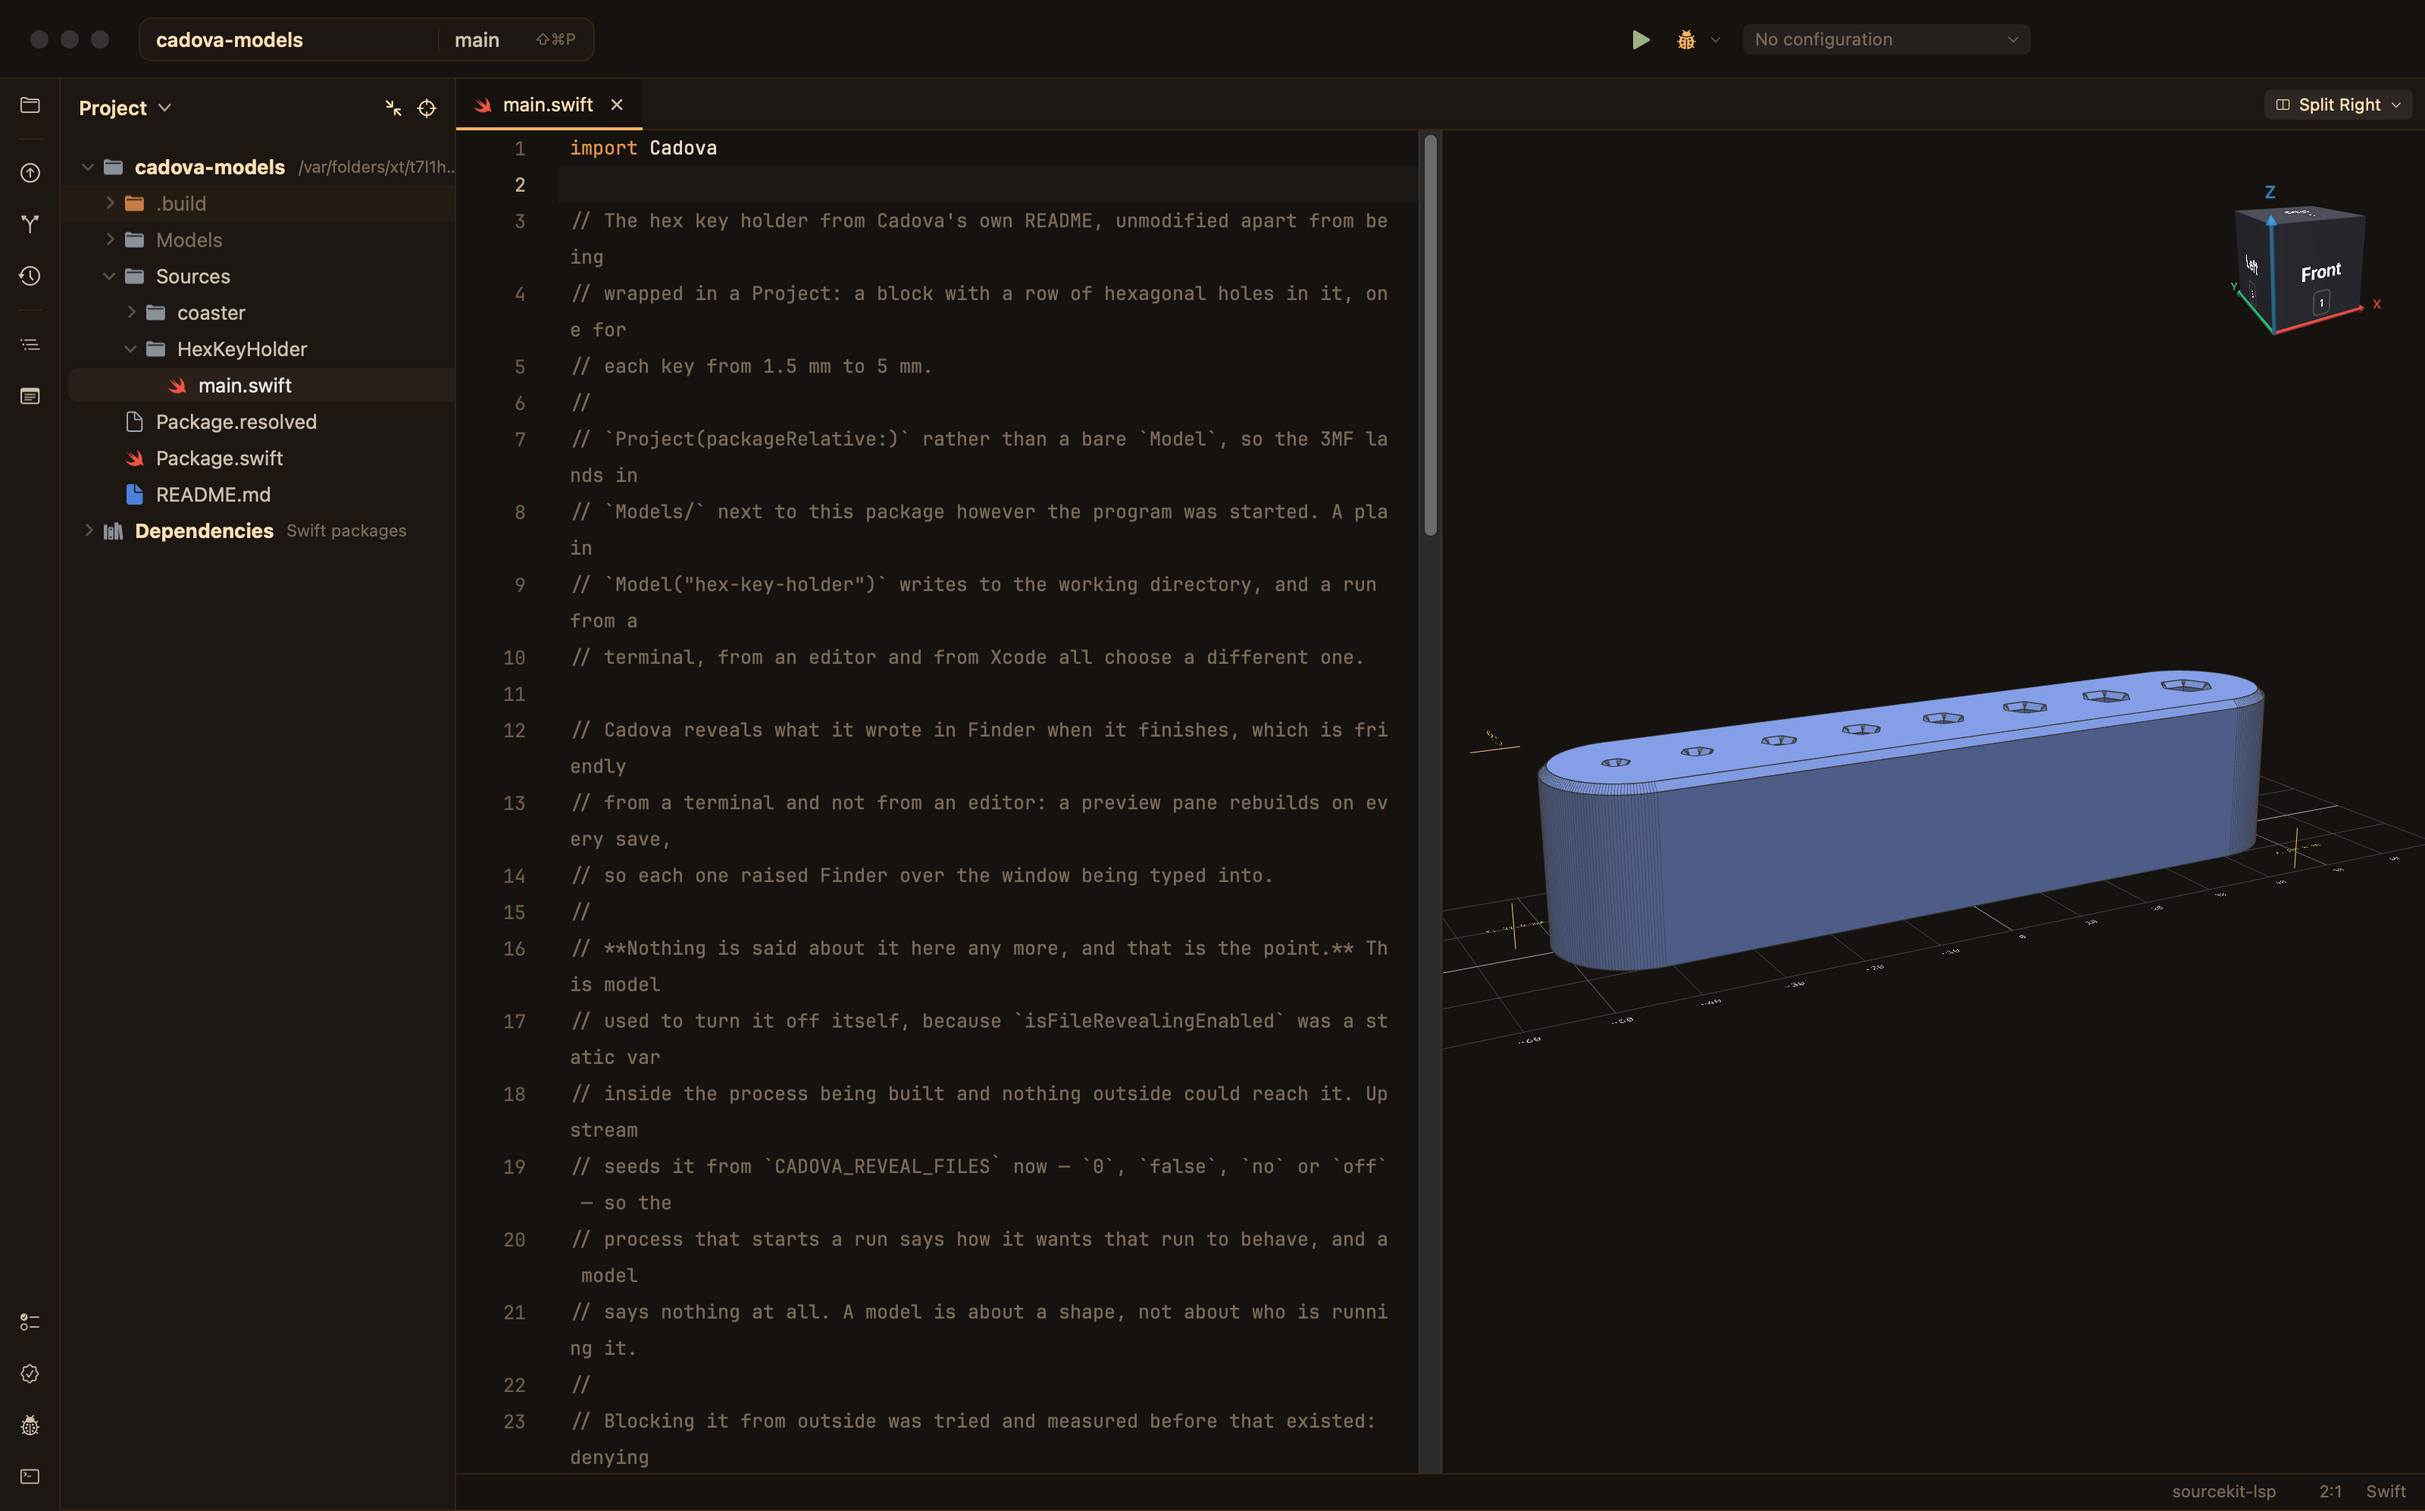
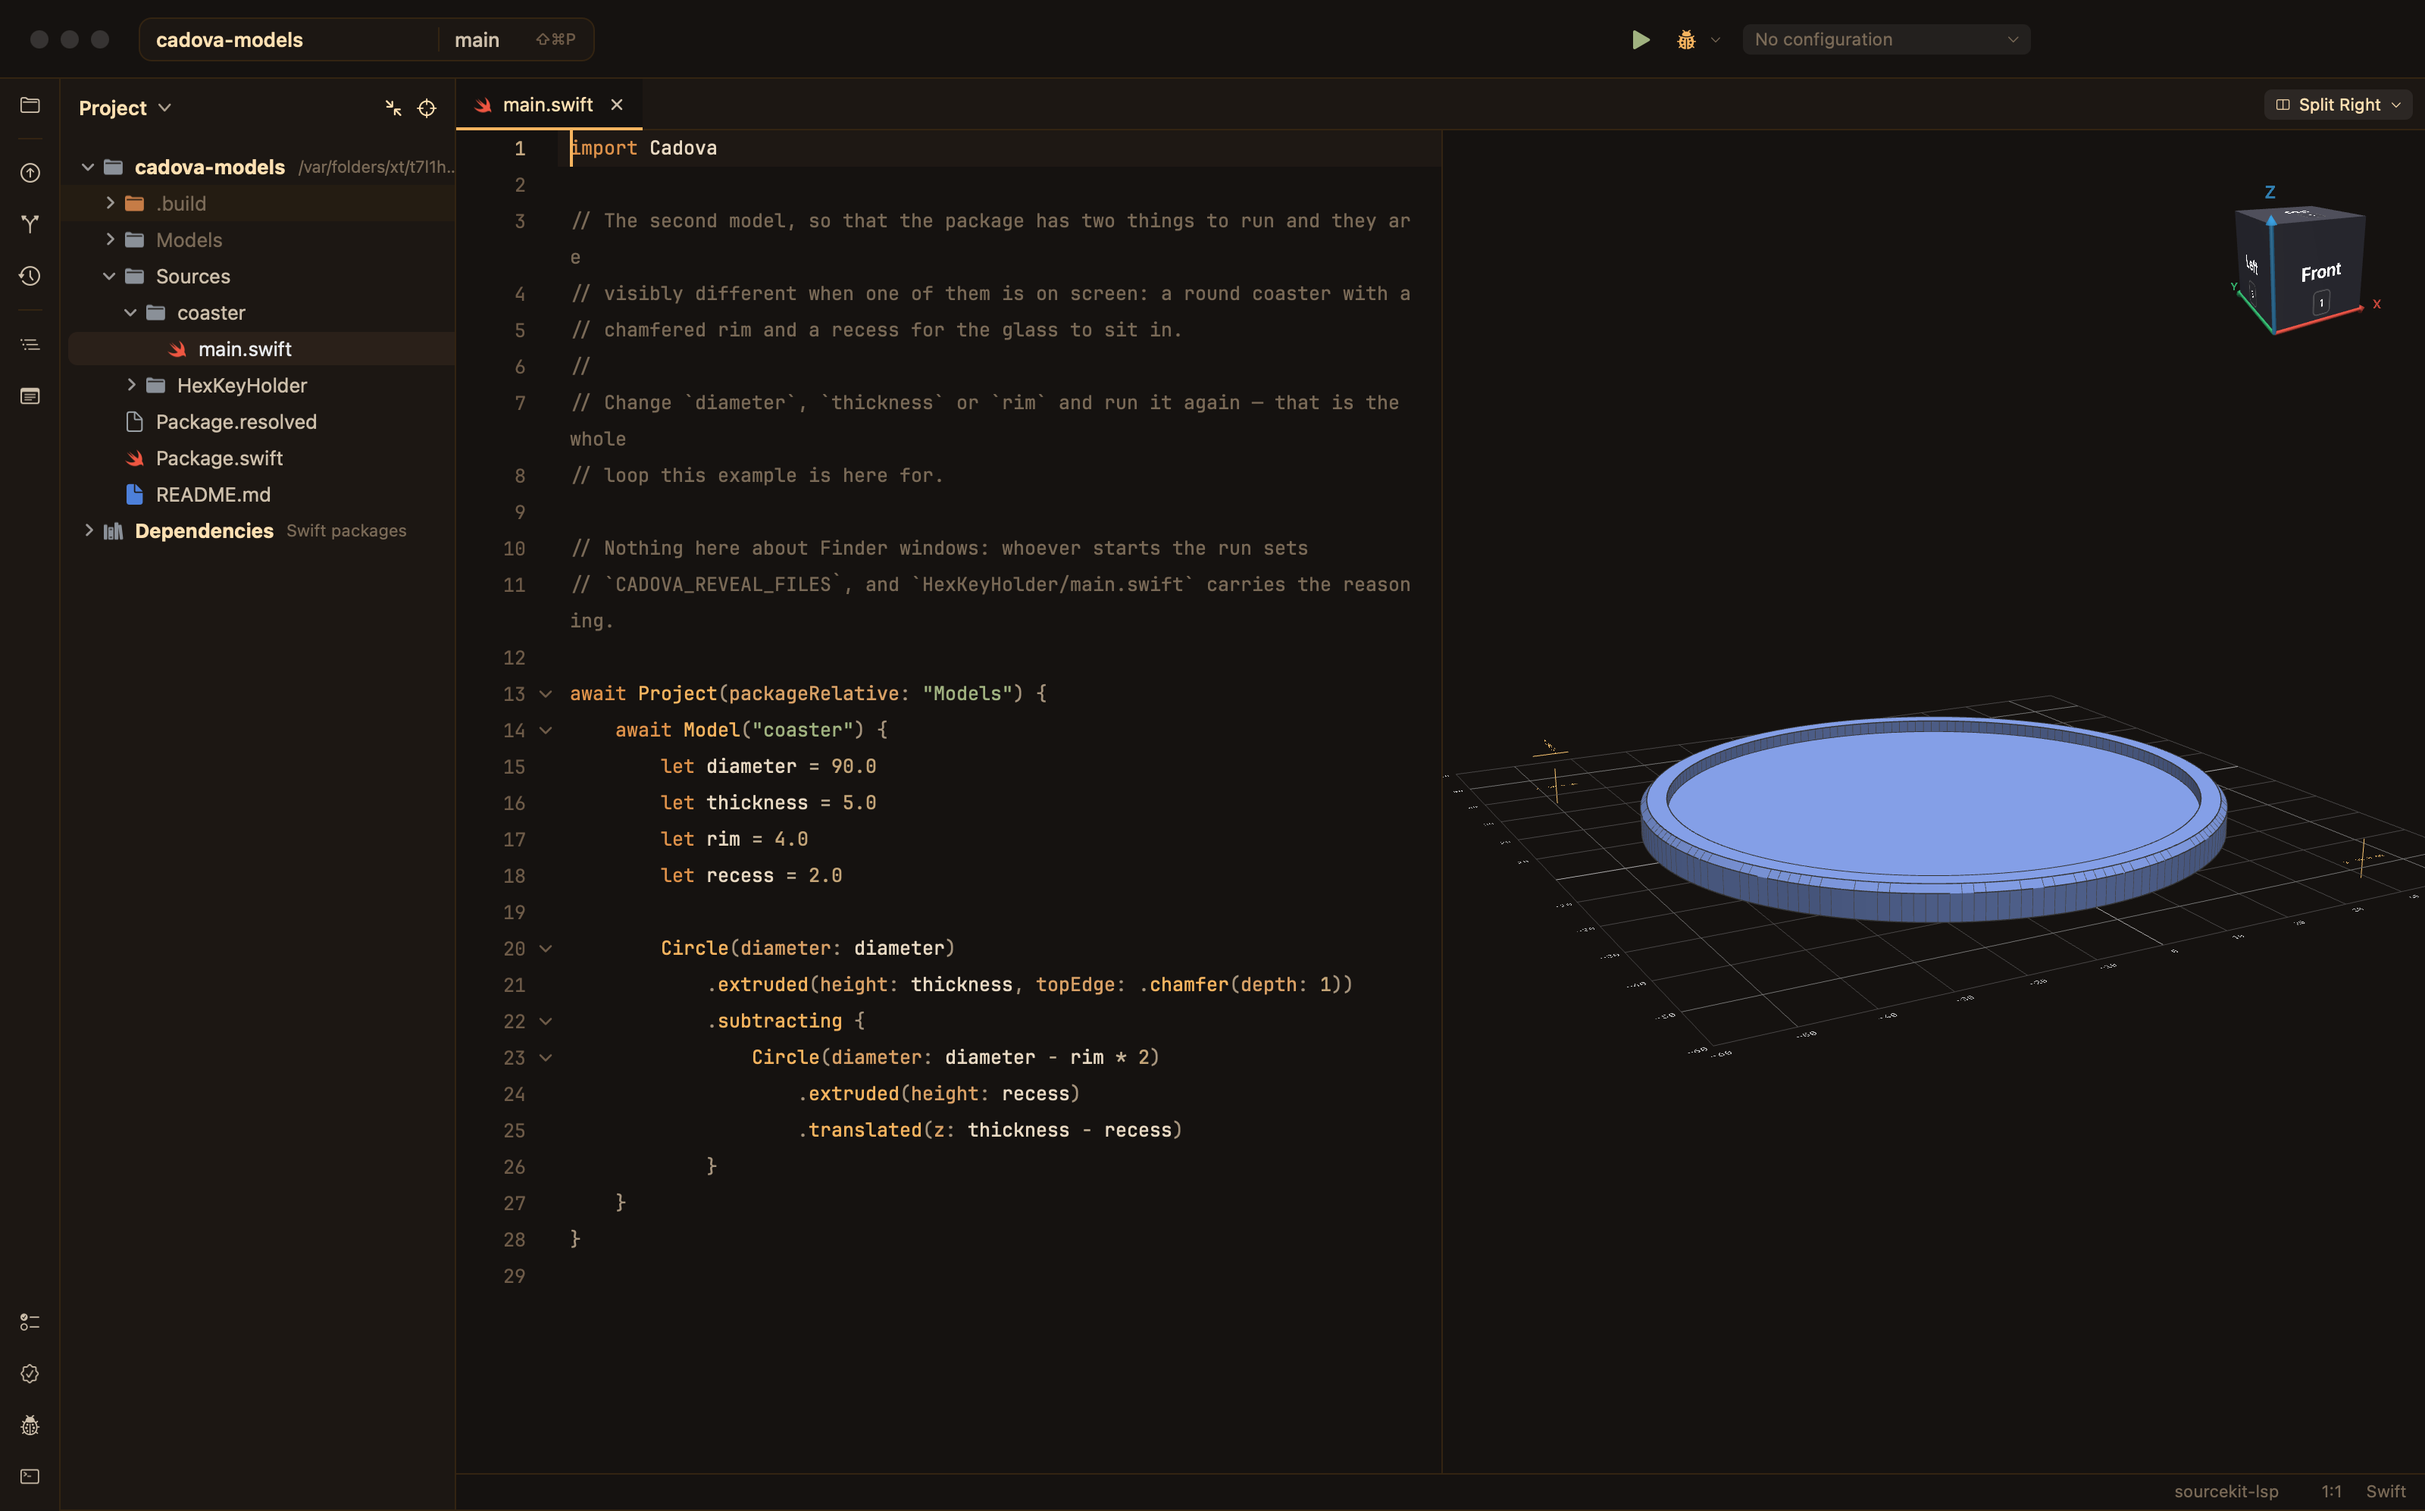
The Cadova picture shows the model rather than the reasoning
`HexKeyHolder/main.swift` is the model from Cadova's own README and is the
better model. It is also eighty-one lines that open on twenty-six of comment,
so the picture was a screenful of prose with `import Cadova` at the top and a
shape beside it — a page claiming the code and the shape are side by side, next
to a picture where only one of them can be read.

`coaster/main.swift` is twenty-eight lines whole. The import, four constants,
and three operations that make the thing: a circle, extruded with a chamfered
top, with a shallower circle subtracted out of it. All of it on screen at once,
beside the coaster it produces, so the claim is one somebody can check in the
picture rather than take on trust.

diff --git a/src/pages/3d-modelling.html b/src/pages/3d-modelling.html
@@ -147,12 +147,13 @@ og_description: A .scad, a Cadova model in Swift and a go3mf recipe, each shown 
 </div>
 
 <figure>
-	<img src="images/cadova.png" alt="Abydos showing a Cadova model: main.swift on the left importing Cadova, and the rendered hex key holder on the right."
+	<img src="images/cadova.png" alt="Abydos showing a Cadova model: the whole of coaster/main.swift on the left — a circle, extruded with a chamfer, with a second circle subtracted from it — and the rendered coaster on the right."
 	     loading="lazy">
-	<figcaption>The hex key holder from Cadova's own README, beside the Swift that
-	   describes it. Nothing in the project says this file is a model — the tree
-	   shows <code>Sources/HexKeyHolder/main.swift</code> like any other source, and
-	   the manifest one level up is what decided it.</figcaption>
+	<figcaption>The whole program, and the shape it makes. Four constants and three
+	   operations — a circle, extruded with a chamfered top, with a shallower circle
+	   subtracted out of it — and nothing in the project says this file is a model:
+	   the tree shows <code>Sources/coaster/main.swift</code> like any other source,
+	   and the manifest one level up is what decided it.</figcaption>
 </figure>
 
 <h2>go3mf recipes</h2>
